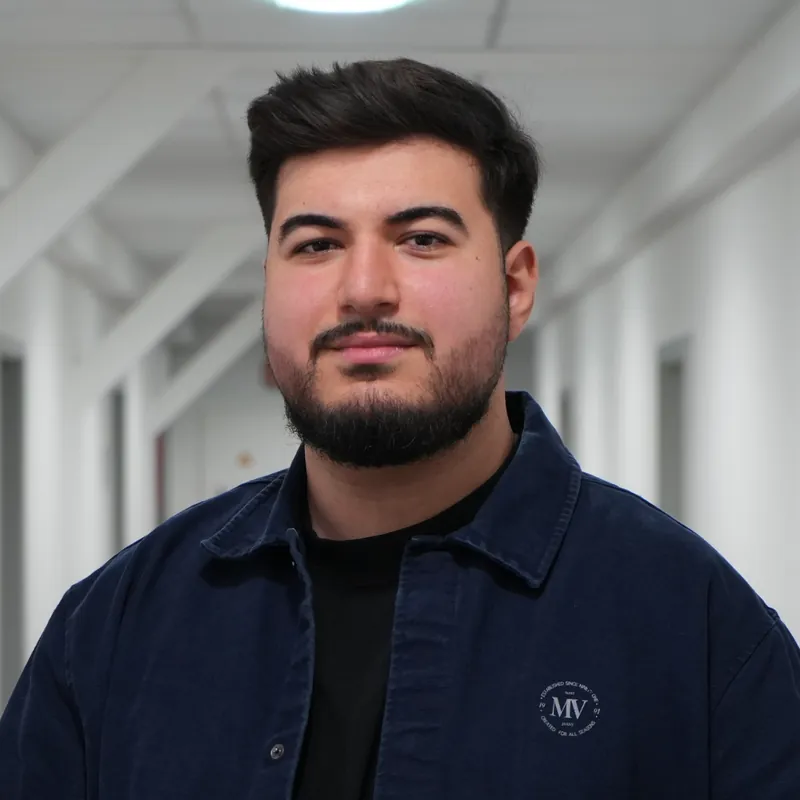
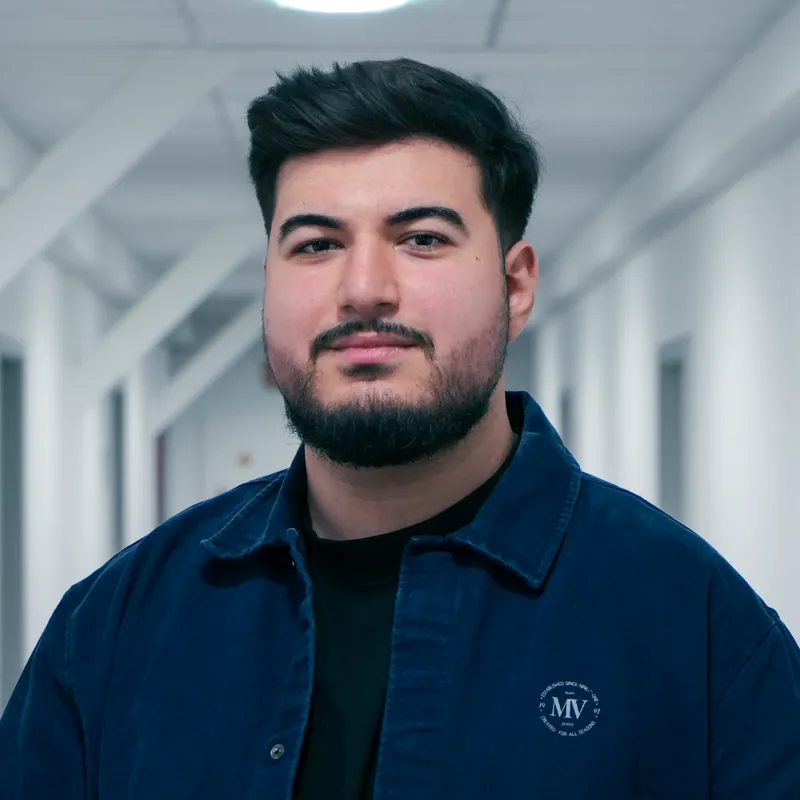
Swap in the color-graded team photos
- All crops in src/imports/team/ re-exported from the graded finals with
  the same framing as before (whiteboard blur comes from the grading)
- About, "Unique & clear" tile: new whiteboard shot with both faces
  (graded no. 4) instead of the back view, which nearly duplicated the
  wide planning photo on the process page; alt texts updated
- Graded portraits for the JSON-LD images and a graded OG image

diff --git a/src/app/components/pages/About.tsx b/src/app/components/pages/About.tsx
@@ -15,7 +15,7 @@ const ANSATZ: { de: AnsatzItem[]; en: AnsatzItem[] } = {
   de: [
     {
       photo: PHOTO.arbeitWhiteboard,
-      alt: "Berkant Agyar und Jonas Gissler planen am Whiteboard den Aufbau einer Webseite",
+      alt: "Jonas Gissler skizziert am Whiteboard den Aufbau einer Webseite, Berkant Agyar schaut mit",
       t: "Individuell & klar",
       d: "Deine Webseite hebt sich von der Masse ab, statt nach Baukasten auszusehen. Und deine Kunden verstehen trotzdem sofort, was du anbietest.",
     },
@@ -35,7 +35,7 @@ const ANSATZ: { de: AnsatzItem[]; en: AnsatzItem[] } = {
   en: [
     {
       photo: PHOTO.arbeitWhiteboard,
-      alt: "Berkant Agyar and Jonas Gissler planning the structure of a website on a whiteboard",
+      alt: "Jonas Gissler sketching the structure of a website on a whiteboard while Berkant Agyar looks on",
       t: "Unique & clear",
       d: "Your website stands out from the crowd instead of looking like a template. And your customers still see right away what you offer.",
     },

diff --git a/src/app/teamPhotos.ts b/src/app/teamPhotos.ts
@@ -2,8 +2,9 @@
  * Fotos aus dem Team-Shooting (November 2026), zentral an einer Stelle.
  *
  * Zuschnitte liegen als WebP ohne EXIF/GPS unter `src/imports/team/`
- * (Dateiname = Motiv + Breite in Pixeln). Kommen gegradete Versionen,
- * werden nur die Dateien gleichen Namens ersetzt – der Code bleibt.
+ * (Dateiname = Motiv + Breite in Pixeln), exportiert aus den gegradeten
+ * Finals („G&A Colorgraded (N).jpg“). Neue Versionen ersetzen nur die
+ * Dateien gleichen Namens – der Code bleibt.
  */
 import jonasPortrait from "../imports/team/jonas-portrait-800.webp";
 import berkantPortrait from "../imports/team/berkant-portrait-800.webp";
